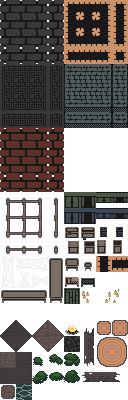
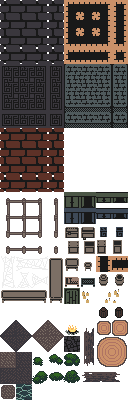
Finally a barrel

diff --git a/assets/sketches/inn_decorations.md b/assets/sketches/inn_decorations.md
@@ -30,6 +30,7 @@
 - Рог
 - Ложки, ножи
 - Висящие на стене кухонные приборы
++ Barrels
 + Lamps
 + Less monotonous vines
 + Wine
